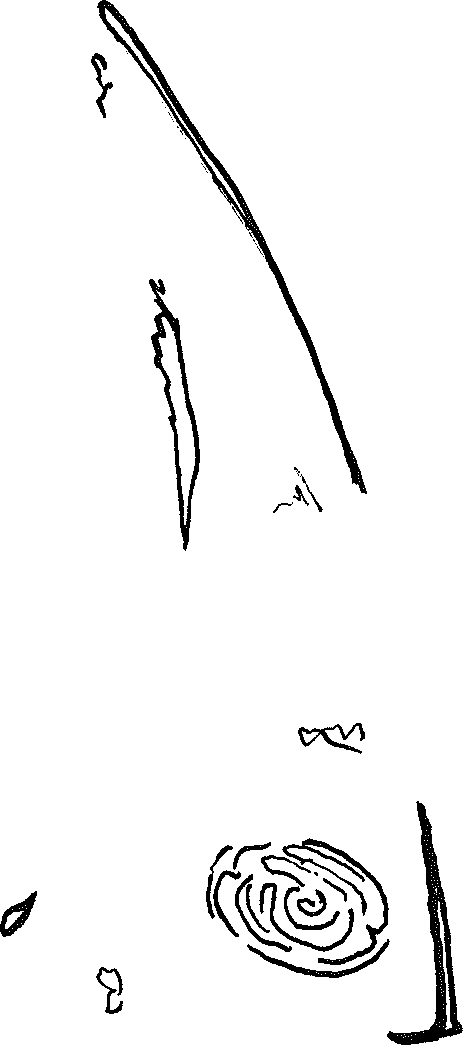
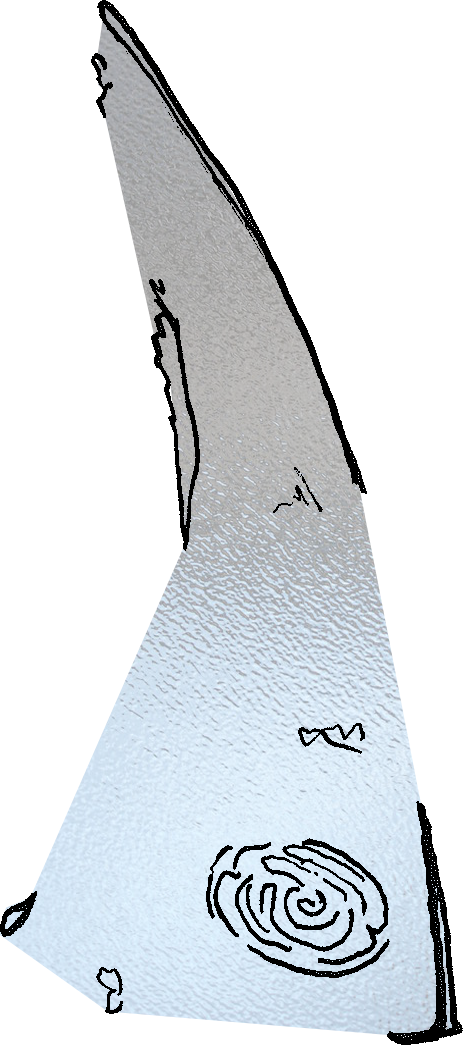
dfghjkl

diff --git a/index.html b/index.html
@@ -17,10 +17,10 @@
                 padding: 0;
             }
 
-            body {
+            /*body {
                 background: url(img/LJ/tape.png) no-repeat;
                 background-size: 100% 100%;
-            }
+            }*/
             #wrapper {
                 /*background-color: red;*/
                 width: 100vw;
@@ -95,6 +95,14 @@
                        transform: rotate(-80deg);
                 max-height: 40%;
                 max-width: 40%;
+                z-index: 1000000000;
+            }
+
+            #tape {
+                width: 100%;
+                height: 100%;
+                background: url(img/LJ/tape.png) no-repeat;
+                background-size: 100% 100%;
             }
 
         </style>
